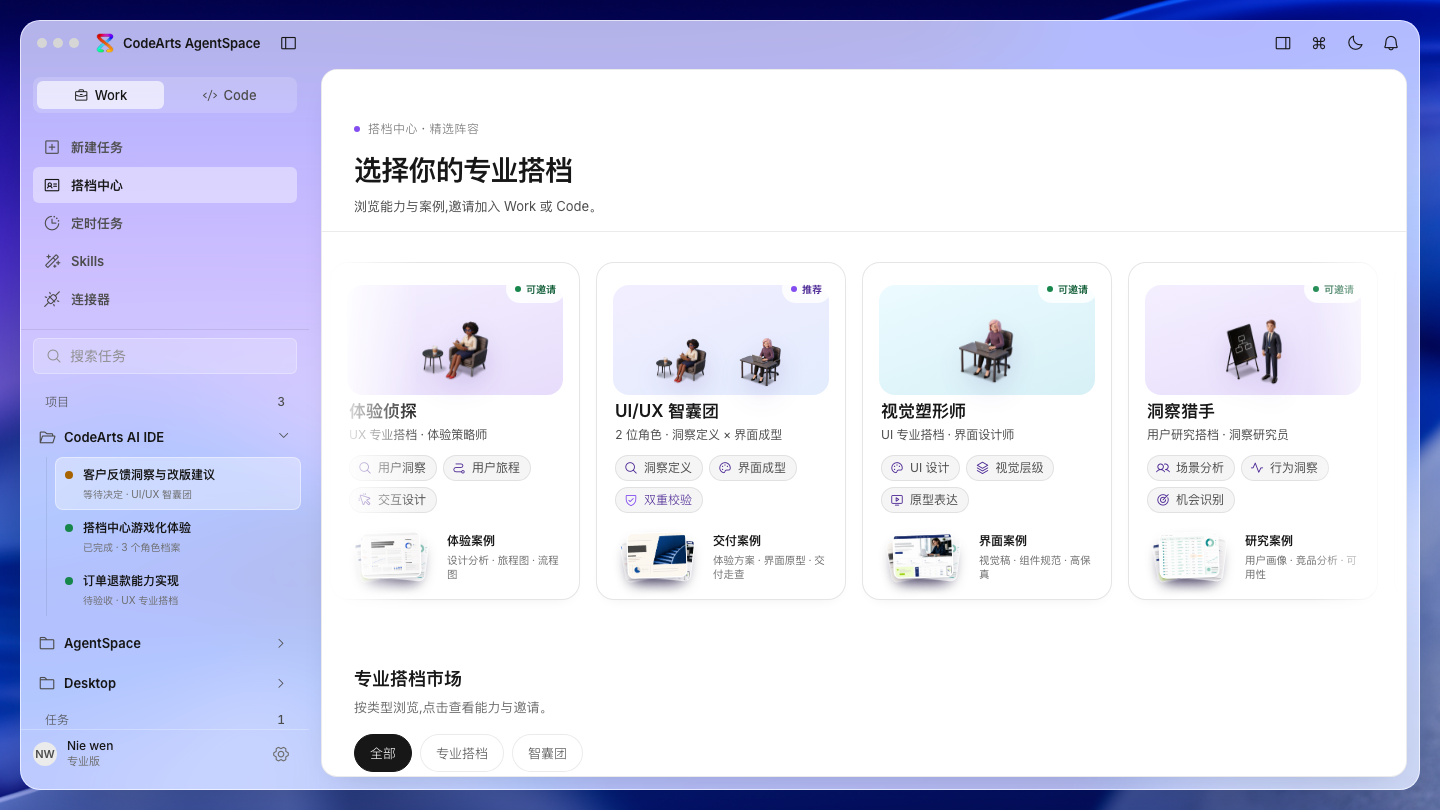
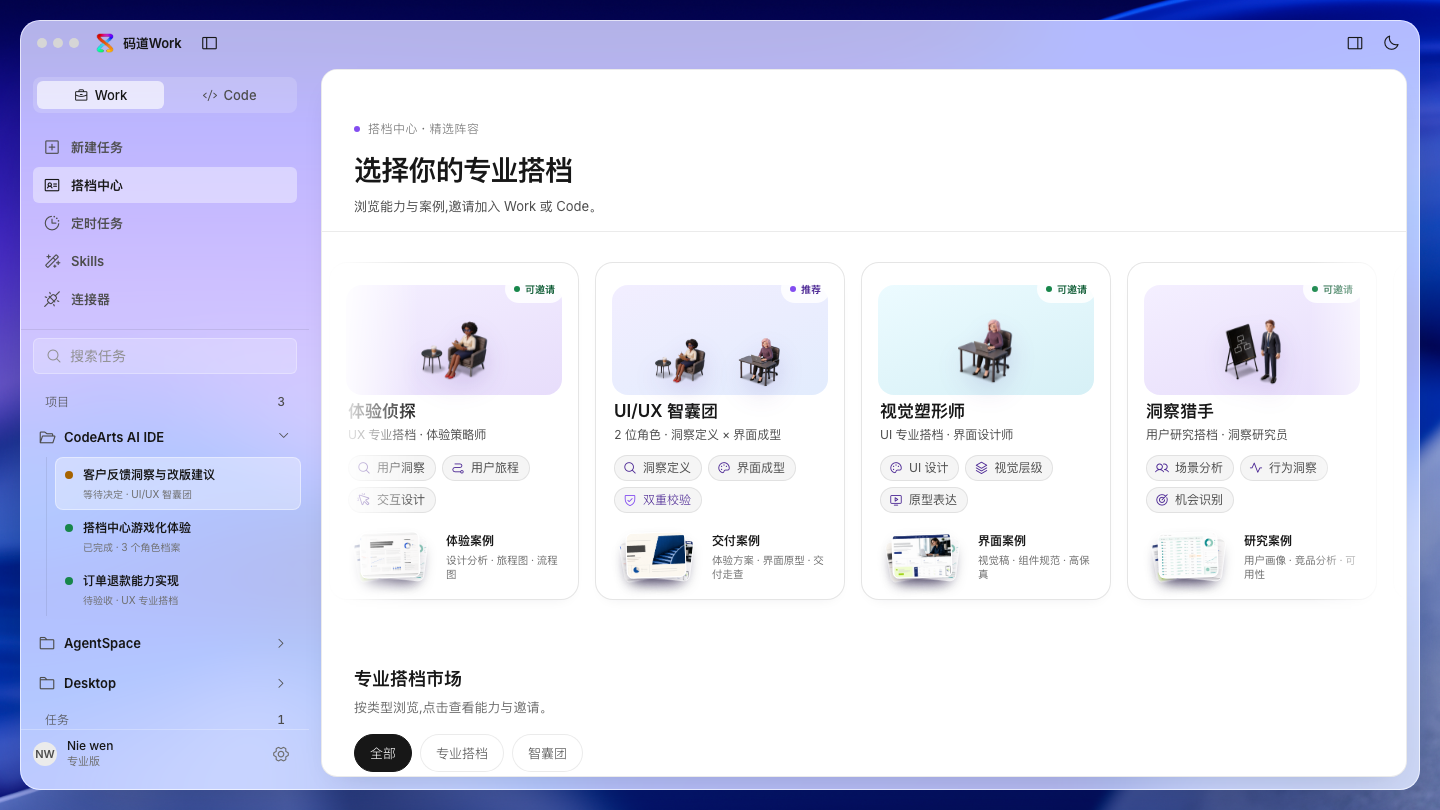
码道Work:模板卡换真实渲染图、产物内容直显(去嵌套卡片)、去命令面板/通知、品牌名改码道Work,更新封面

diff --git a/codearts-space/index.html b/codearts-space/index.html
@@ -3512,21 +3512,14 @@
     .art-tab:hover { color: var(--text-primary); }
     .art-tab.is-selected { color: var(--text-primary); border-color: var(--brand-default); background: rgba(131, 77, 240, 0.08); }
 
-    .art-stage { border: 1px solid var(--border-subtle); border-radius: 12px; overflow: hidden; }
-    .art-stage-head {
-      display: flex; align-items: center; gap: 8px;
-      padding: 9px var(--sp-4); border-bottom: 1px solid var(--border-subtle);
-      font-size: 12px; color: var(--text-secondary); background: rgba(120, 120, 140, 0.05);
-    }
-    .art-stage-head .path { font-family: ui-monospace, SFMono-Regular, Menlo, monospace; color: var(--text-primary); font-weight: 600; }
-    .art-stage-head .grow { flex: 1; }
-    .art-stage-body { padding: var(--sp-4); }
+    /* 产物内容直接展示,不再套卡片 */
+    .art-stage-wrap { padding: 2px; }
     .art-code {
-      margin: 0; padding: var(--sp-4);
+      margin: 0; padding: 0;
       font-family: ui-monospace, SFMono-Regular, Menlo, monospace;
-      font-size: 12px; line-height: 1.75; color: var(--text-primary);
+      font-size: 12.5px; line-height: 1.85; color: var(--text-primary);
       white-space: pre-wrap; word-break: break-word;
-      background: rgba(120, 120, 140, 0.05); overflow-x: auto;
+      background: transparent; overflow-x: auto;
     }
     .art-table { width: 100%; border-collapse: collapse; font-size: 12px; }
     .art-table th, .art-table td { text-align: left; padding: 8px 10px; border-bottom: 1px solid var(--border-subtle); color: var(--text-primary); }
@@ -5471,22 +5464,16 @@
           <span class="window-dot"></span>
         </div>
         <div class="brand-lockup">
-          <img class="brand-logo" src="assets/logo.png" alt="CodeArts AgentSpace logo">
-          <span>CodeArts AgentSpace</span>
+          <img class="brand-logo" src="assets/logo.png" alt="码道Work logo">
+          <span>码道Work</span>
         </div>
         <button class="icon-button" id="toggleSidebarBtn" title="收起 / 展开侧栏" aria-label="收起或展开侧栏"><i class="ph ph-sidebar-simple"></i></button>
       </div>
       <div class="title-center"></div>
       <div class="title-right">
         <button class="icon-button" id="toggleArtifactBtn" title="显示 / 隐藏产物区" aria-label="显示或隐藏产物区"><i class="ph ph-sidebar-simple icon-flip-x"></i></button>
-        <button class="icon-button" id="commandButton" aria-label="打开命令面板" title="命令面板">
-          <i class="ph ph-command"></i>
-        </button>
         <button class="icon-button" id="themeButton" aria-label="切换主题" title="切换主题">
           <i class="ph ph-moon"></i>
-        </button>
-        <button class="icon-button" aria-label="通知" title="通知">
-          <i class="ph ph-bell"></i>
         </button>
       </div>
     </header>
@@ -7283,7 +7270,7 @@
       container.innerHTML = templates.map((template, index) => `
         <button class="task-template-card ${state.selectedTemplateId === template.id ? "is-selected" : ""}" data-template-id="${template.id}">
           <span class="task-template-cover has-image is-${state.selectedTemplateType} variant-${index + 1}">
-            <img class="task-template-image" src="${index % 2 === 0 ? `assets/codearts-templates/${state.selectedTemplateType}-editorial-v2.png` : `assets/template-covers/${state.selectedTemplateType}.png`}" alt="">
+            <img class="task-template-image" src="assets/template-covers/${state.selectedTemplateType}.png" alt="">
             <span class="task-template-badge">
               <i class="ph ${templateTypes.find((type) => type.id === state.selectedTemplateType)?.icon || "ph-file"}"></i>
               ${templateTypes.find((type) => type.id === state.selectedTemplateType)?.label || "模板"}
@@ -7814,10 +7801,8 @@
     function artifactStageHTML(artifact) {
       const preview = getScenario().preview;
       const t = artifact.title;
-      const head = `<div class="art-stage-head"><i class="ph ${artifact.icon}"></i><span class="path">${t}</span><span class="grow"></span><span>${artifact.statusText}</span></div>`;
-      let body;
       if (t.endsWith(".csv")) {
-        body = `<table class="art-table">
+        return `<table class="art-table">
           <thead><tr><th>问题</th><th>频次</th><th>严重度</th><th>影响范围</th></tr></thead>
           <tbody>
             <tr><td>状态反馈不足</td><td>412</td><td>高</td><td>37%</td></tr>
@@ -7825,8 +7810,9 @@
             <tr><td>入口层级过深</td><td>174</td><td>中</td><td>12%</td></tr>
             <tr><td>关键文案歧义</td><td>131</td><td>中</td><td>9%</td></tr>
           </tbody></table>`;
-      } else if (t.endsWith(".md")) {
-        body = `<pre class="art-code"># 客户反馈问题聚类
+      }
+      if (t.endsWith(".md")) {
+        return `<pre class="art-code"># 客户反馈问题聚类
 
 ## 高影响问题（P0）
 - 状态反馈不足 —— 覆盖 37% 负向反馈
@@ -7837,17 +7823,15 @@
 每一类保留代表性原声与来源引用（feedback_2026Q2.csv）。
 
 > 结论：先建立一致的任务状态与恢复机制，再优化局部视觉表达。</pre>`;
-      } else {
-        body = `<div class="art-stage-body"><article class="artifact-document">
-          <div class="eyebrow"><span class="brand-dot"></span>${preview.eyebrow}</div>
-          <p>${artifact.description}</p>
-          <h4>核心判断</h4>
-          <ul>${preview.core.map((item) => `<li>${item}</li>`).join("")}</ul>
-          <h4>建议动作</h4>
-          <ul>${preview.actions.map((item) => `<li>${item}</li>`).join("")}</ul>
-        </article></div>`;
       }
-      return `<div class="art-stage">${head}${body}</div>`;
+      return `<article class="artifact-document">
+        <div class="eyebrow"><span class="brand-dot"></span>${preview.eyebrow}</div>
+        <p>${artifact.description}</p>
+        <h4>核心判断</h4>
+        <ul>${preview.core.map((item) => `<li>${item}</li>`).join("")}</ul>
+        <h4>建议动作</h4>
+        <ul>${preview.actions.map((item) => `<li>${item}</li>`).join("")}</ul>
+      </article>`;
     }
 
     // 从概览点击产物 → 打开右侧独立产物区并定位预览
@@ -9067,7 +9051,7 @@
     });
     el("addExpertButton").addEventListener("click", () => showToast("可从搭档中心邀请或替换成员"));
     el("editTeamButton").addEventListener("click", () => showToast("选择智囊团即可调整成员组合"));
-    el("commandButton").addEventListener("click", () => showToast("快捷命令：新建任务 · 搜索搭档 · 打开成果"));
+    el("commandButton")?.addEventListener("click", () => showToast("快捷命令：新建任务 · 搜索搭档 · 打开成果"));
     el("themeButton").addEventListener("click", () => {
       const nextTheme = document.documentElement.dataset.theme === "light" ? "dark" : "light";
       document.documentElement.dataset.theme = nextTheme;
